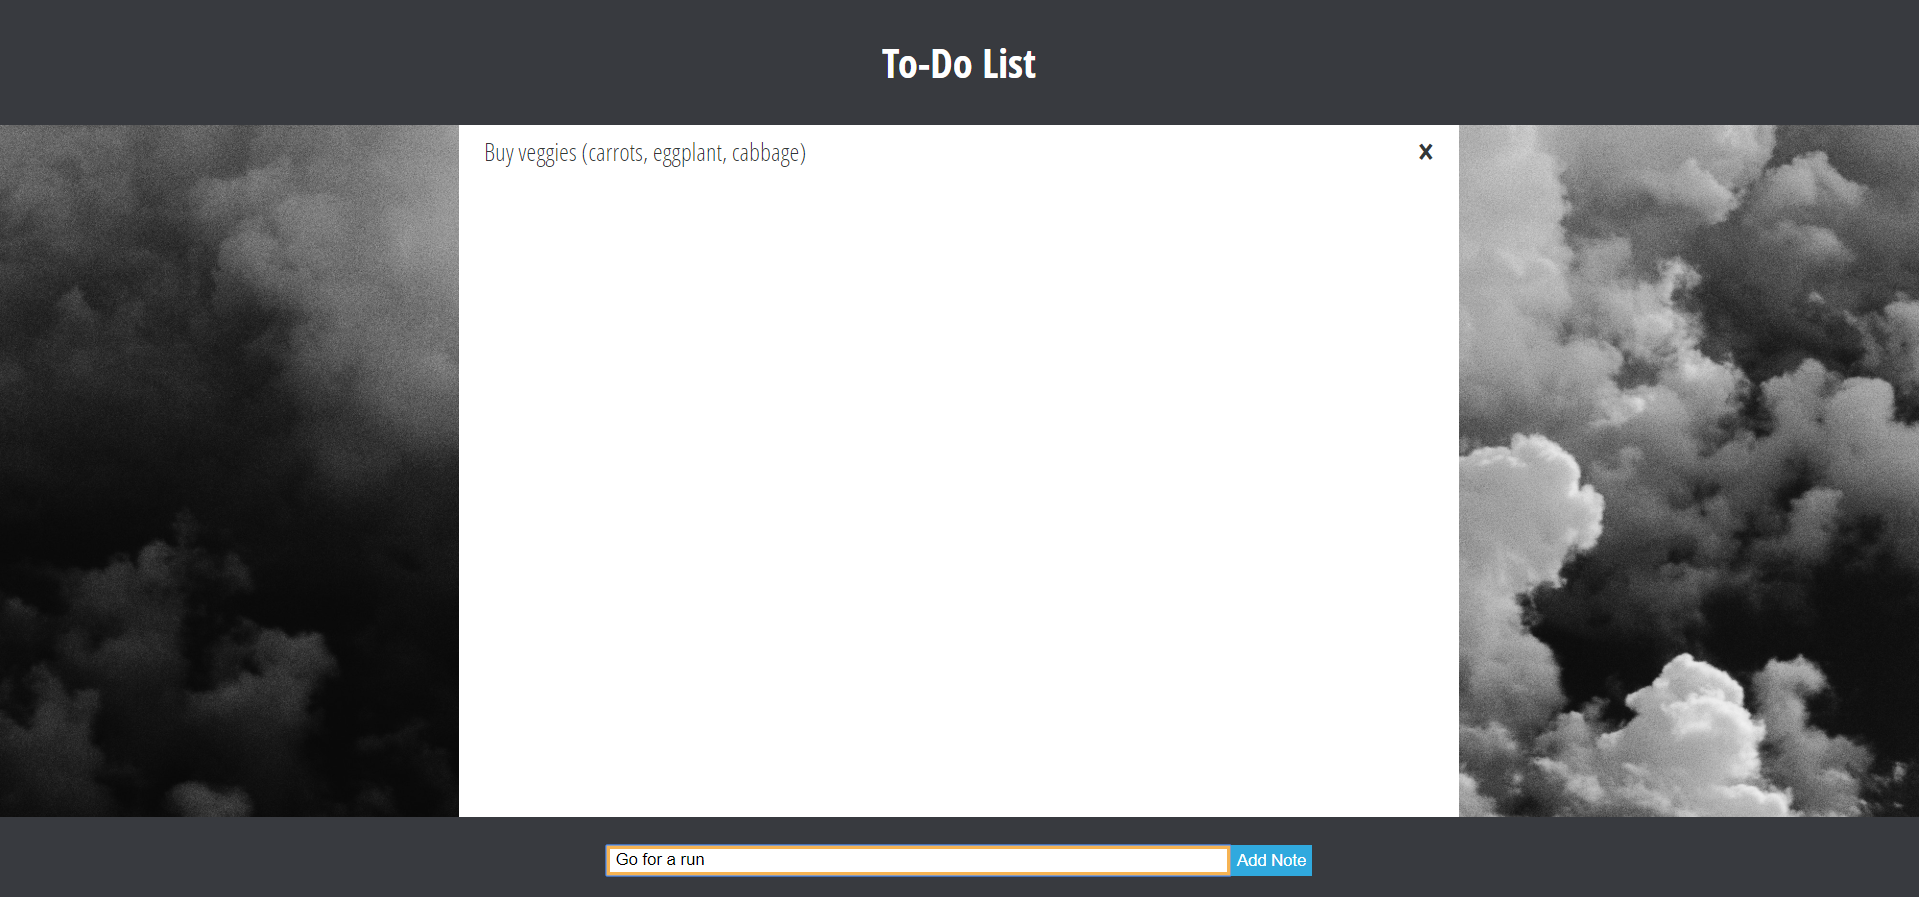
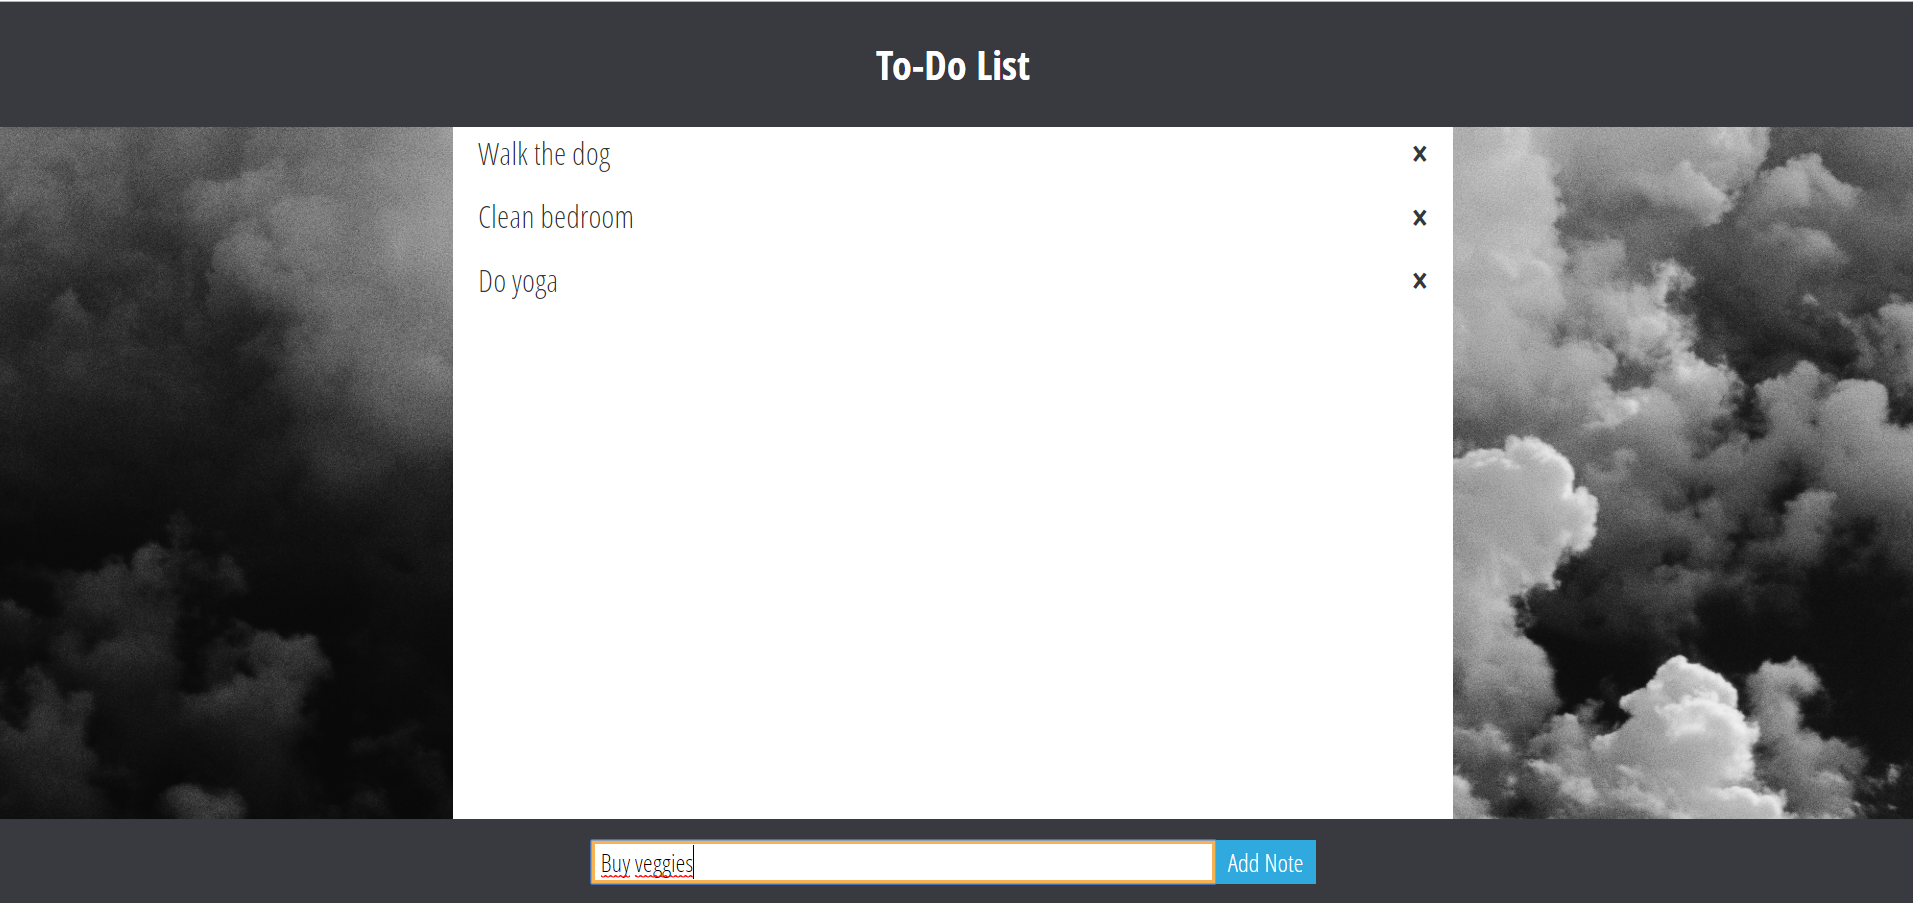
changed font-size and updated screenshots

diff --git a/docs/index.html b/docs/index.html
@@ -1,1 +1,1 @@
-<!doctype html><html lang="en"><head><meta charset="utf-8"><link rel="shortcut icon" href="./favicon.ico"><meta name="viewport" content="width=device-width,initial-scale=1,shrink-to-fit=no"><meta name="theme-color" content="#000000"><link rel="manifest" href="./manifest.json"><title>React App</title><link href="./static/css/main.a908a9e9.chunk.css" rel="stylesheet"></head><body><noscript>You need to enable JavaScript to run this app.</noscript><div id="root"></div><script>!function(l){function e(e){for(var r,t,n=e[0],o=e[1],u=e[2],f=0,i=[];f<n.length;f++)t=n[f],p[t]&&i.push(p[t][0]),p[t]=0;for(r in o)Object.prototype.hasOwnProperty.call(o,r)&&(l[r]=o[r]);for(s&&s(e);i.length;)i.shift()();return c.push.apply(c,u||[]),a()}function a(){for(var e,r=0;r<c.length;r++){for(var t=c[r],n=!0,o=1;o<t.length;o++){var u=t[o];0!==p[u]&&(n=!1)}n&&(c.splice(r--,1),e=f(f.s=t[0]))}return e}var t={},p={2:0},c=[];function f(e){if(t[e])return t[e].exports;var r=t[e]={i:e,l:!1,exports:{}};return l[e].call(r.exports,r,r.exports,f),r.l=!0,r.exports}f.m=l,f.c=t,f.d=function(e,r,t){f.o(e,r)||Object.defineProperty(e,r,{enumerable:!0,get:t})},f.r=function(e){"undefined"!=typeof Symbol&&Symbol.toStringTag&&Object.defineProperty(e,Symbol.toStringTag,{value:"Module"}),Object.defineProperty(e,"__esModule",{value:!0})},f.t=function(r,e){if(1&e&&(r=f(r)),8&e)return r;if(4&e&&"object"==typeof r&&r&&r.__esModule)return r;var t=Object.create(null);if(f.r(t),Object.defineProperty(t,"default",{enumerable:!0,value:r}),2&e&&"string"!=typeof r)for(var n in r)f.d(t,n,function(e){return r[e]}.bind(null,n));return t},f.n=function(e){var r=e&&e.__esModule?function(){return e.default}:function(){return e};return f.d(r,"a",r),r},f.o=function(e,r){return Object.prototype.hasOwnProperty.call(e,r)},f.p="./";var r=window.webpackJsonp=window.webpackJsonp||[],n=r.push.bind(r);r.push=e,r=r.slice();for(var o=0;o<r.length;o++)e(r[o]);var s=n;a()}([])</script><script src="./static/js/1.d5d92a70.chunk.js"></script><script src="./static/js/main.cea690ad.chunk.js"></script></body></html>
+<!doctype html><html lang="en"><head><meta charset="utf-8"><link rel="shortcut icon" href="./favicon.ico"><meta name="viewport" content="width=device-width,initial-scale=1,shrink-to-fit=no"><meta name="theme-color" content="#000000"><link rel="manifest" href="./manifest.json"><title>React App</title><link href="./static/css/main.12d23590.chunk.css" rel="stylesheet"></head><body><noscript>You need to enable JavaScript to run this app.</noscript><div id="root"></div><script>!function(l){function e(e){for(var r,t,n=e[0],o=e[1],u=e[2],f=0,i=[];f<n.length;f++)t=n[f],p[t]&&i.push(p[t][0]),p[t]=0;for(r in o)Object.prototype.hasOwnProperty.call(o,r)&&(l[r]=o[r]);for(s&&s(e);i.length;)i.shift()();return c.push.apply(c,u||[]),a()}function a(){for(var e,r=0;r<c.length;r++){for(var t=c[r],n=!0,o=1;o<t.length;o++){var u=t[o];0!==p[u]&&(n=!1)}n&&(c.splice(r--,1),e=f(f.s=t[0]))}return e}var t={},p={2:0},c=[];function f(e){if(t[e])return t[e].exports;var r=t[e]={i:e,l:!1,exports:{}};return l[e].call(r.exports,r,r.exports,f),r.l=!0,r.exports}f.m=l,f.c=t,f.d=function(e,r,t){f.o(e,r)||Object.defineProperty(e,r,{enumerable:!0,get:t})},f.r=function(e){"undefined"!=typeof Symbol&&Symbol.toStringTag&&Object.defineProperty(e,Symbol.toStringTag,{value:"Module"}),Object.defineProperty(e,"__esModule",{value:!0})},f.t=function(r,e){if(1&e&&(r=f(r)),8&e)return r;if(4&e&&"object"==typeof r&&r&&r.__esModule)return r;var t=Object.create(null);if(f.r(t),Object.defineProperty(t,"default",{enumerable:!0,value:r}),2&e&&"string"!=typeof r)for(var n in r)f.d(t,n,function(e){return r[e]}.bind(null,n));return t},f.n=function(e){var r=e&&e.__esModule?function(){return e.default}:function(){return e};return f.d(r,"a",r),r},f.o=function(e,r){return Object.prototype.hasOwnProperty.call(e,r)},f.p="./";var r=window.webpackJsonp=window.webpackJsonp||[],n=r.push.bind(r);r.push=e,r=r.slice();for(var o=0;o<r.length;o++)e(r[o]);var s=n;a()}([])</script><script src="./static/js/1.d5d92a70.chunk.js"></script><script src="./static/js/main.aa472446.chunk.js"></script></body></html>

diff --git a/docs/static/js/main.aa472446.chunk.js b/docs/static/js/main.aa472446.chunk.js
@@ -1,2 +1,2 @@
 (window.webpackJsonp=window.webpackJsonp||[]).push([[0],{16:function(e,t,n){e.exports=n(35)},21:function(e,t,n){},25:function(e,t,n){},35:function(e,t,n){"use strict";n.r(t);var a=n(0),o=n.n(a),r=n(13),s=n.n(r),c=(n(21),n(2)),i=n(3),l=n(5),d=n(4),u=n(6),m=n(1),h=n(14),b=n.n(h),p=function(e){function t(e){var n;return Object(c.a)(this,t),(n=Object(l.a)(this,Object(d.a)(t).call(this,e))).noteContent=e.noteContent,n.noteId=e.noteId,n.handleRemoveNote=n.handleRemoveNote.bind(Object(m.a)(Object(m.a)(n))),n}return Object(u.a)(t,e),Object(i.a)(t,[{key:"handleRemoveNote",value:function(e){this.props.removeNote(e)}},{key:"render",value:function(){var e=this;return o.a.createElement("div",{className:"body_note"},o.a.createElement("p",{className:"note_content"},this.noteContent),o.a.createElement("span",{className:"note_button",onClick:function(){return e.handleRemoveNote(e.noteId)}},"\xd7"))}}]),t}(a.Component);p.propTyps={noteContent:b.a.string};var v=p,N=function(e){function t(e){var n;return Object(c.a)(this,t),(n=Object(l.a)(this,Object(d.a)(t).call(this,e))).state={newNoteContent:""},n.handleUserInput=n.handleUserInput.bind(Object(m.a)(Object(m.a)(n))),n.writeNote=n.writeNote.bind(Object(m.a)(Object(m.a)(n))),n}return Object(u.a)(t,e),Object(i.a)(t,[{key:"handleUserInput",value:function(e){this.setState({newNoteContent:e.target.value})}},{key:"writeNote",value:function(){this.props.addNote(this.state.newNoteContent),this.setState({newNoteContent:""})}},{key:"render",value:function(){return o.a.createElement("div",{className:"footer_form"},o.a.createElement("input",{className:"form_input",placeholder:"Write a note ...",value:this.state.newNoteContent,onChange:this.handleUserInput,type:"text"}),o.a.createElement("button",{className:"form_button",onClick:this.writeNote},"Add Note"))}}]),t}(o.a.Component),f=(n(25),{apiKey:"AIzaSyDU1VLC40mZ-q8h1kWzMJS6Vjok7VDzyOA",authDomain:"react-notes-fb061.firebaseapp.com",databaseURL:"https://react-notes-fb061.firebaseio.com",projectId:"react-notes-fb061",storageBucket:"react-notes-fb061.appspot.com",messagingSenderId:"1066401313806"}),j=n(15),O=n.n(j),y=(n(32),function(e){function t(e){var n;return Object(c.a)(this,t),(n=Object(l.a)(this,Object(d.a)(t).call(this,e))).addNote=n.addNote.bind(Object(m.a)(Object(m.a)(n))),n.removeNote=n.removeNote.bind(Object(m.a)(Object(m.a)(n))),n.app=O.a.initializeApp(f),n.database=n.app.database().ref().child("notes"),n.state={notes:[]},n}return Object(u.a)(t,e),Object(i.a)(t,[{key:"componentWillMount",value:function(){var e=this,t=this.state.notes;this.database.on("child_added",function(n){t.push({id:n.key,noteContent:n.val().noteContent}),e.setState({notes:t})}),this.database.on("child_removed",function(n){for(var a=0;a<t.length;a++)t[a].id===n.key&&t.splice(a,1);e.setState({notes:t})})}},{key:"addNote",value:function(e){this.database.push().set({noteContent:e})}},{key:"removeNote",value:function(e){this.database.child(e).remove()}},{key:"render",value:function(){var e=this;return o.a.createElement("div",{className:"notes"},o.a.createElement("div",{className:"header_container"},o.a.createElement("header",{className:"notes_header container"},o.a.createElement("h1",{className:"header_title"},"To-Do List"))),o.a.createElement("div",{className:"body_container"},o.a.createElement("article",{className:"notes_body container"},this.state.notes.map(function(t){return o.a.createElement(v,{noteContent:t.noteContent,noteId:t.id,key:t.id,removeNote:e.removeNote})}))),o.a.createElement("div",{className:"footer_container"},o.a.createElement("footer",{className:"notes_footer container"},o.a.createElement(N,{addNote:this.addNote}))))}}]),t}(a.Component));Boolean("localhost"===window.location.hostname||"[::1]"===window.location.hostname||window.location.hostname.match(/^127(?:\.(?:25[0-5]|2[0-4][0-9]|[01]?[0-9][0-9]?)){3}$/));s.a.render(o.a.createElement(y,null),document.getElementById("root")),"serviceWorker"in navigator&&navigator.serviceWorker.ready.then(function(e){e.unregister()})}},[[16,2,1]]]);
-//# sourceMappingURL=main.cea690ad.chunk.js.map
+//# sourceMappingURL=main.aa472446.chunk.js.map

diff --git a/docs/static/css/main.12d23590.chunk.css b/docs/static/css/main.12d23590.chunk.css
@@ -1,0 +1,2 @@
+@import url(https://fonts.googleapis.com/css?family=Open+Sans+Condensed:300,300i,700);body{margin:0;padding:0;font-family:-apple-system,BlinkMacSystemFont,Segoe UI,Roboto,Oxygen,Ubuntu,Cantarell,Fira Sans,Droid Sans,Helvetica Neue,sans-serif;-webkit-font-smoothing:antialiased;-moz-osx-font-smoothing:grayscale}code{font-family:source-code-pro,Menlo,Monaco,Consolas,Courier New,monospace}.container{width:100%;max-width:800px;margin:0 auto}.header_container{width:100%;height:100px;background-color:#383a3f;display:flex;justify-content:center;align-items:center}.header_title{text-align:center;padding:10px 0;color:#fff}.body_container{width:100%;background-color:#383a3f;background-image:url(../../static/media/body_background.5ceb1c93.jpg);background-position:50%;background-size:cover}.notes_body{background-color:#fff;height:calc(100vh - 170px)}.footer_container{width:100%;height:70px;display:flex;align-items:center;background-color:#383a3f}.notes_footer{padding:10px 0}.footer_form{display:flex;align-items:flex-end;justify-content:center}.form_input{width:200px;height:25px;padding:5px;border:3px solid #ccc;-webkit-transition:.5s;transition:.5s;font-family:inherit;font-size:15px}.form_input:focus{border:3px solid #f6b352}@media (min-width:740px){.form_input{width:400px;font-size:20px;height:30px}}@media (min-width:980px){.form_input{width:500px;font-size:20px;height:35px}}.form_button{height:25px;width:80px;border:none;color:#fff;background-color:#1f2124;cursor:pointer;-webkit-transition:1s;transition:1s;text-align:center;padding:0;vertical-align:middle;font-family:inherit;font-size:15px}@media (min-width:740px){.form_button{font-size:20px;height:35px}}@media (min-width:980px){.form_button{font-size:20px;height:35px}}.form_button:hover{background-color:#30a9de}.body_note{display:flex;align-items:center;padding:0 20px 10px;font-size:20px}@media (min-width:740px){.body_note{font-size:25px}}@media (min-width:980px){.body_note{font-size:25px}}.notes_body{overflow:auto}.note_content{width:100%}.note_button{font-weight:700;font-size:30px;-webkit-transition:.5s;transition:.5s}.note_button:hover{color:#dc143c;cursor:pointer}*{box-sizing:border-box;margin:0;padding:0}body{color:#343838;font-family:Open Sans Condensed,sans-serif}
+/*# sourceMappingURL=main.12d23590.chunk.css.map */

diff --git a/src/scss/_NoteForm.scss b/src/scss/_NoteForm.scss
@@ -10,25 +10,44 @@
   padding: 5px;
   border: 3px solid #ccc;
   transition: 0.5s;
+  font-family : inherit;
+  font-size: 15px;
   &:focus {
     border: 3px solid  #F6B352;
   }
   @media all and (min-width: 740px){
     width: 400px;
+    font-size: 20px;
+    height: 30px;
   }
   @media all and (min-width: 980px) {
     width: 500px;
+    font-size: 20px;
+    height: 35px;
   }
 }
 
 .form_button {
   height: 25px;
-  padding: 5px;
+  width: 80px;
   border: none;
   color: white;
   background-color: #1F2124;
   cursor: pointer;
   transition: 1s;
+  text-align: center;
+  padding: 0;
+  vertical-align: middle;
+  font-family : inherit;
+  font-size: 15px;
+  @media all and (min-width: 740px) {
+    font-size: 20px;
+    height: 35px;
+  }
+  @media all and (min-width: 980px) {
+    font-size: 20px;
+    height: 35px;
+  }
   &:hover {
     background-color: #30A9DE;
   }

diff --git a/docs/precache-manifest.f00d4b8f5997d51b4ca8c2cc4da163df.js b/docs/precache-manifest.f00d4b8f5997d51b4ca8c2cc4da163df.js
@@ -8,19 +8,19 @@ self.__precacheManifest = [
     "url": "./static/js/runtime~main.4a686d48.js"
   },
   {
-    "revision": "cea690adb2cb82002c5d",
-    "url": "./static/js/main.cea690ad.chunk.js"
+    "revision": "aa47244633e8af29e412",
+    "url": "./static/js/main.aa472446.chunk.js"
   },
   {
     "revision": "d5d92a70f636de8410df",
     "url": "./static/js/1.d5d92a70.chunk.js"
   },
   {
-    "revision": "cea690adb2cb82002c5d",
-    "url": "./static/css/main.a908a9e9.chunk.css"
+    "revision": "aa47244633e8af29e412",
+    "url": "./static/css/main.12d23590.chunk.css"
   },
   {
-    "revision": "55b0d82c8f48dda0caa799b98199fb40",
+    "revision": "f1e58bd7bd6893e59967c5ed89b39fd0",
     "url": "./index.html"
   }
 ];

diff --git a/docs/service-worker.js b/docs/service-worker.js
@@ -14,7 +14,7 @@
 importScripts("https://storage.googleapis.com/workbox-cdn/releases/3.6.3/workbox-sw.js");
 
 importScripts(
-  "./precache-manifest.bfc824885de50f331afcfadd298fcb33.js"
+  "./precache-manifest.f00d4b8f5997d51b4ca8c2cc4da163df.js"
 );
 
 workbox.clientsClaim();

diff --git a/src/scss/_Note.scss b/src/scss/_Note.scss
@@ -3,6 +3,12 @@
   align-items: center;
   padding: 0 20px 10px 20px;
   font-size: 20px;
+  @media all and (min-width: 740px){
+    font-size: 25px;
+  }
+  @media all and (min-width: 980px) {
+    font-size: 25px;
+  }
 }
 
 .notes_body{
